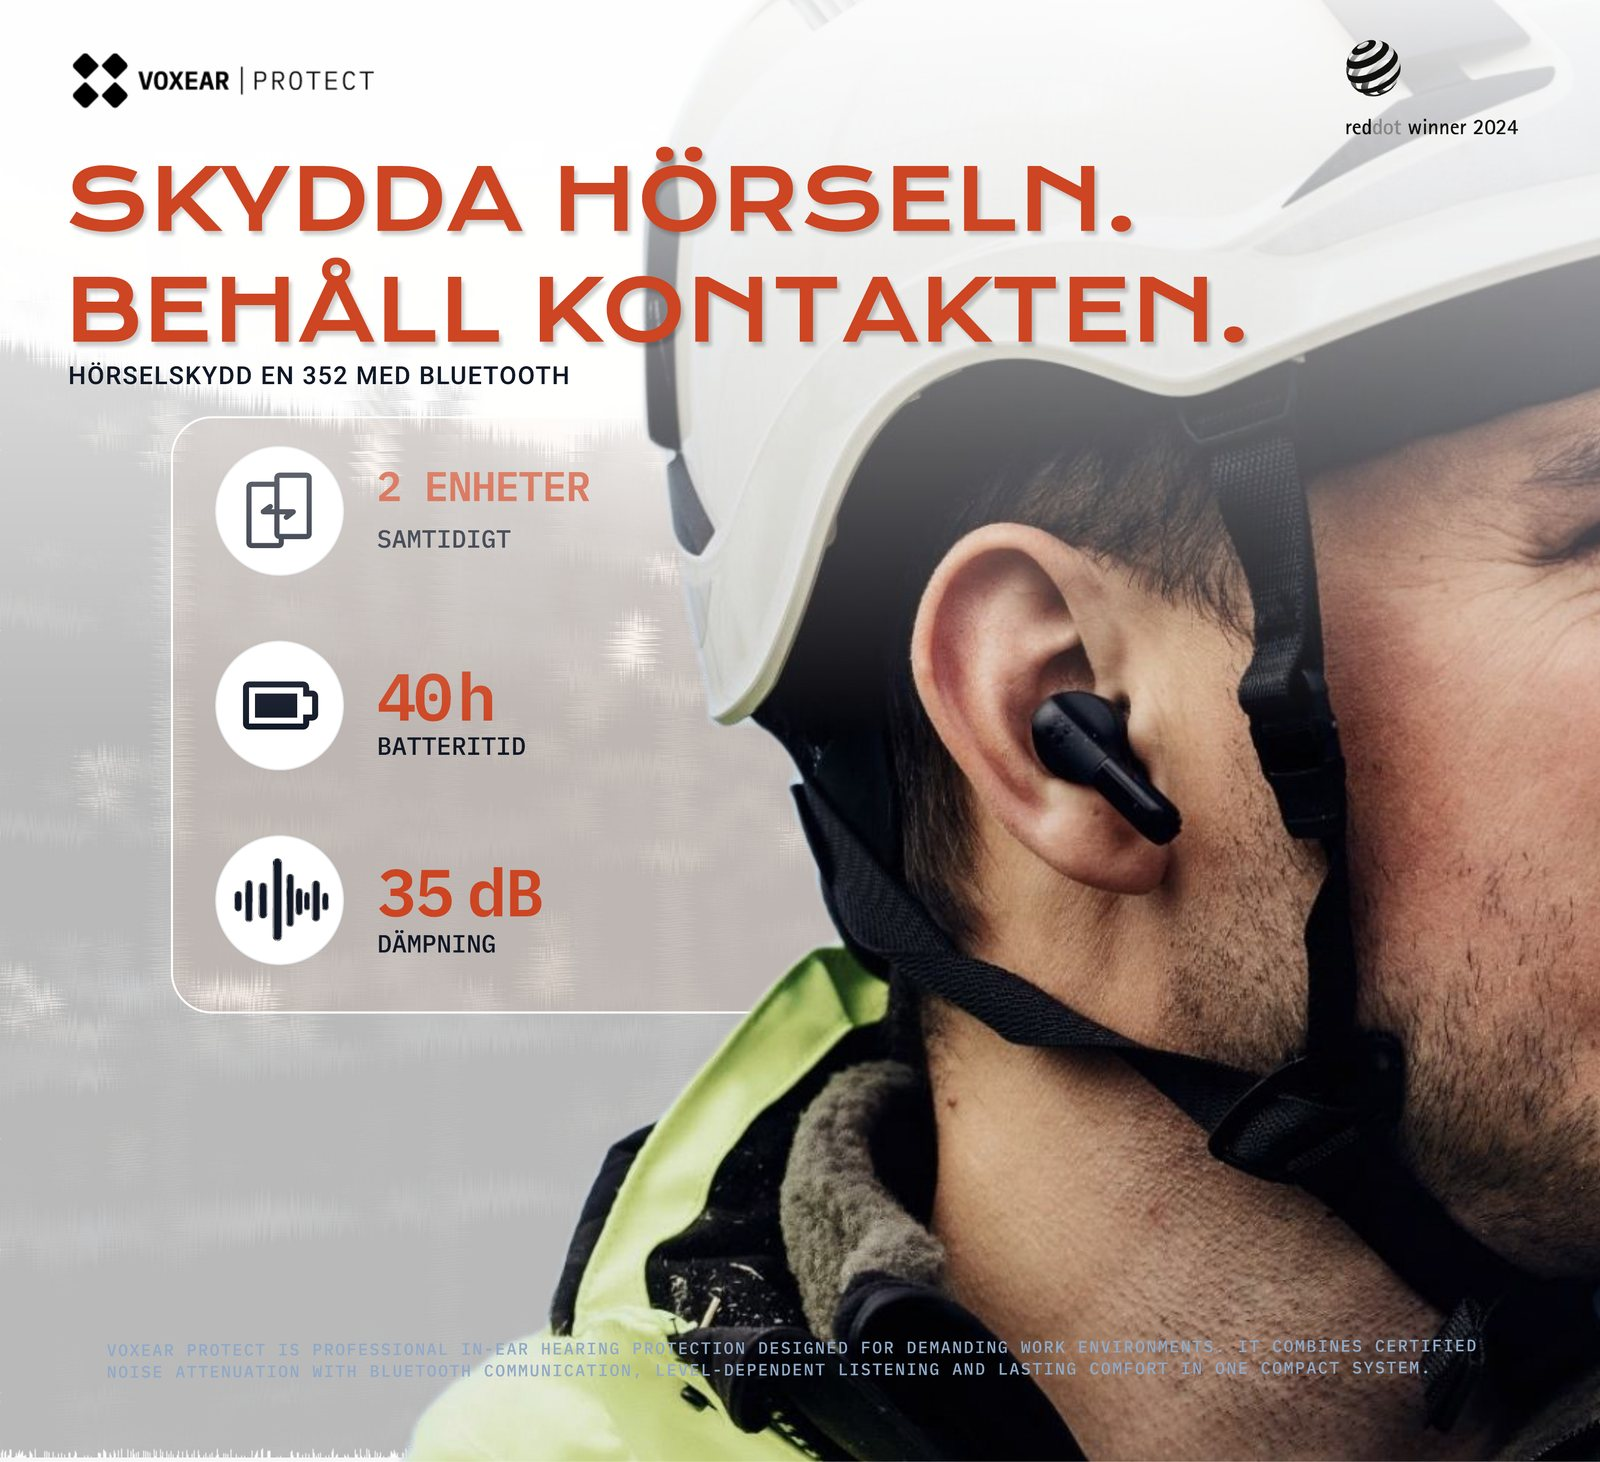
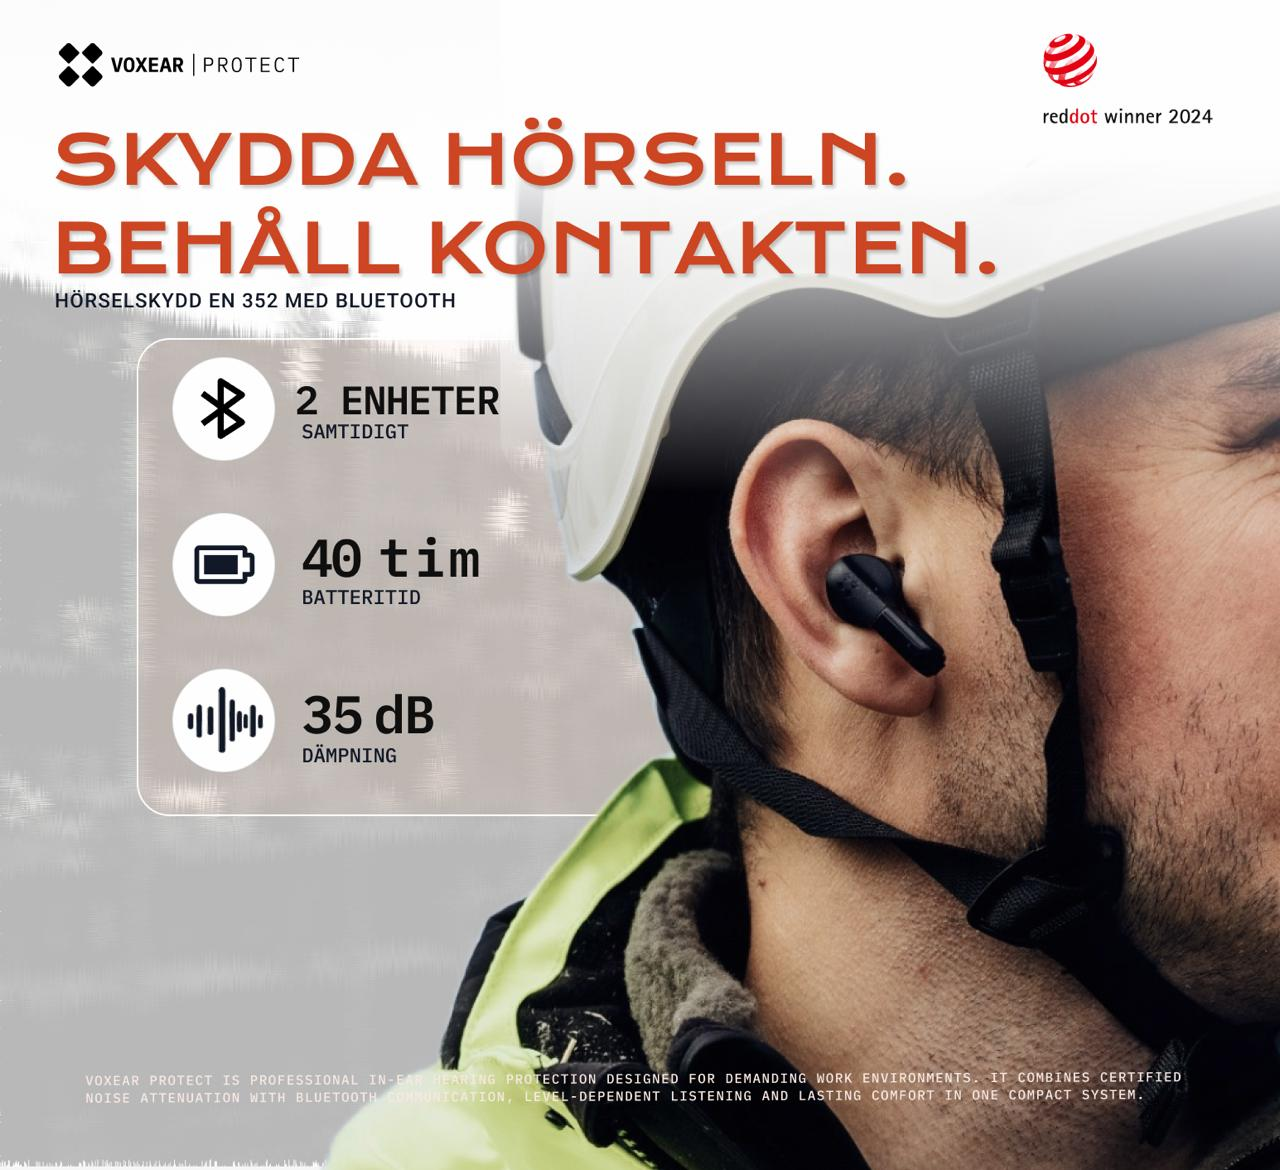
fix(retail display): final front graphic as the After image

diff --git a/lib/voxearCases.ts b/lib/voxearCases.ts
@@ -87,7 +87,7 @@ export const VOXEAR_CASES: VoxearCase[] = [
           description: 'A text list over a photo, without brand colour.',
         },
         after: {
-          src: '/projects/voxear/display-front.jpg', w: 1600, h: 1462,
+          src: '/projects/voxear/display-front.jpg', w: 1280, h: 1170,
           label: 'After',
           description: 'Headline in the brand accent, three spec callouts with icons.',
         },
